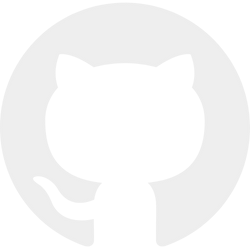
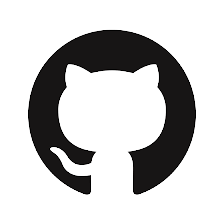
tweaked colors and used color variables

Changed region(s): [[0.125, 0.125, 0.875, 0.875]]

diff --git a/src/index.css b/src/index.css
@@ -14,6 +14,15 @@
   }
 }
 
+/* Color Variables */
+:root {
+  --primary-color: #0A192F;
+  --secondary-color: #68d391;
+  --light-theme-bg: #fff;
+  --text-color-dark: #D1D5DB;
+  --accent-color-light: #8892B0;
+  --accent-color-dark: #111;
+}
 
 * {
   margin: 0;
@@ -21,7 +30,7 @@
   box-sizing: border-box;
 }
 
-.nav {
+.nav, .progress_wrapper {
   z-index: 10;
 }
 
@@ -30,7 +39,6 @@
   top: 0;
   left: 0;
   width: 100%;
-  z-index: 10;
 }
 
 .progress_bar {
@@ -39,7 +47,7 @@
   left: 0;
   width: 0%;
   height: 3px;
-  background-color: #68d391;
+  background-color: var(--secondary-color);
 }
 
 /* Custom Scroll-Bar */
@@ -48,18 +56,18 @@
 }
 
 ::-webkit-scrollbar-track {
-  background: #f1f1f1;
+  background: var(--light-theme-bg);
 }
 
 ::-webkit-scrollbar-thumb {
-  background: #68d391;
+  background: var(--secondary-color);
   border-radius: 4px;
 }
 
 .loader {
   display:block;
   margin:auto;
-  color: #68d391;
+  color: var(--secondary-color);
   z-index: 999;
 }
 
@@ -107,11 +115,11 @@
 
 #btnTop {
   display: inline-block;
-  background-color: #0A192F;
+  background-color: var(--primary-color);
   width: 50px;
   height: 50px;
   text-align: center;
-  border-color: #fff;
+  border-color: var(--light-theme-bg);
   border: 2px solid;
   position: fixed;
   bottom: 30px;
@@ -129,7 +137,7 @@
   font-style: normal;
   font-size: 2em;
   line-height: 50px;
-  color: #fff;
+  color: --light-theme-bg;
 }
 
 #btnTop:hover {
@@ -142,53 +150,50 @@
 }
 
 .light-theme {
-  background-color: #e4e5f1;
-  color: black;
+  background-color: var(--light-theme-bg);
+  color: var(--accent-color-dark);
 
 }
+
 .light-theme .mobileMenu {
-  background-color: #e4e5f1;
+  background-color: var(--accent-color-light);
 }
 
-.light-theme a, p, .about {
-  color: #0A192F;
+.light-theme p, .about {
+  color: var(--primary-color);
 }
 
 .light-theme .time {
-  color: #0A192F;
+  color: var(--primary-color);
 }
 
 .light-theme .group{
-  border: 1px solid #0A192F;
-}
-
-.light-theme #btnTop, ::-webkit-scrollbar-thumb {
-  border-color: #0A192F;
+  border: 1px solid var(--primary-color);
 }
 
 .light-theme .name {
-  color: #8892B0;
+  color: var(--accent-color-light);
 }
 
 .light-theme .web, .title {
-  color: #0A192F;
+  color: var(--primary-color);
 }
 
 .light-theme button {
-  background-color: #0A192F;
+  background-color: var(--primary-color);
 }
 
-.light-theme .nav, .skillsCard {
-  background-color: #8892B0;
+.light-theme .nav {
+  background-color: var(--primary-color);
 }
 
 .dark-theme, .mobileMenu {
-  background-color: #0A192F;
-  color: white;
+  background-color: var(--primary-color);
+  color: var(--light-theme-bg);
 }
 
-.dark-theme .group{
-  border: 1px solid #68d391;
+.dark-theme .group, .skillsCard{
+  border: 1px solid var(--secondary-color);
 }
 
 .dark-theme .nav {
@@ -196,21 +201,20 @@
 }
 
 .dark-theme .skillsCard {
-  background-color: #0A192F;
+  background-color: var(--primary-color);
 }
 
 .dark-theme p, .time {
-  color: #D1D5DB;
+  color: var(--light-theme-bg);
 }
 
 .dark-theme .hi {
-  color: #68d391;
+  color: var(--secondary-color);
 }
 
 canvas {
   background-color: transparent;
 }
-
 
 /* CSS Animation for about section*/
 @keyframes slideInLeft {
@@ -245,7 +249,7 @@ canvas {
 
 .web {
   position: relative;
-  white-space: nowrap;
+  --light-theme-bg-space: nowrap;
   text-overflow: ellipsis;
   max-width: 65vw;
   height: auto;
@@ -255,8 +259,8 @@ canvas {
   content: "I'm a Software Developer.";
   position: absolute;
   overflow: hidden;
-  color: #68d391;
-  border-right: 4px solid #68d391;
+  color: var(--secondary-color);
+  border-right: 4px solid var(--secondary-color);
   top: 0;
   left: 0;
   width: 0;
@@ -265,8 +269,8 @@ canvas {
 }
 
 .light-theme .web::before{
-  color: #8892B0;
-  border-right: 4px solid #8892B0;
+  color: --accent-color-light;
+  border-right: 4px solid --accent-color-light;
 }
 
 @keyframes sway {
@@ -308,4 +312,3 @@ canvas {
     overflow: hidden;
   }
 }
-

diff --git a/src/components/Navbar.jsx b/src/components/Navbar.jsx
@@ -61,7 +61,7 @@ const Navbar = ({ theme, setTheme }) => {
           </Link>
         </li>
         <DarkModeSwitch
-          style={{ marginBottom: "0rem" }}
+          style={{ marginBottom: "0rem", color: "#fff" }}
           checked={theme === "dark"}
           onChange={toggleDarkMode}
           size={25}
@@ -73,9 +73,9 @@ const Navbar = ({ theme, setTheme }) => {
         className="md:hidden z-10 hover:cursor-pointer text-2xl"
       >
         {!nav ? (
-          <FaBars />
+          <FaBars style={{ color: "#fff" }} />
         ) : (
-          <FaTimes style={{ color: theme === "light" ? "#0A192F" : "#fff" }} />
+          <FaTimes style={{ color: "#fff" }} />
         )}
       </div>
 

diff --git a/src/pages/Contact.jsx b/src/pages/Contact.jsx
@@ -13,12 +13,10 @@ const Contact = ({ nav }) => {
       <form
         method="POST"
         action="https://getform.io/f/65c92a0f-7a6c-4355-83a7-dcd78c5a552f"
-        className="flex flex-col max-w-[600px] w-full"
+        className="flex flex-col max-w-[600px] w-full font-bold text-[#0A192F]"
       >
         <div className="pb-6">
-          <p className="text-4xl font-bold inline border-b-4 border-blue-600">
-            Contact
-          </p>
+          <p className="text-4xl inline border-b-4 border-blue-600">Contact</p>
         </div>
         <input
           className="bg-[#ccd6f6] p-2"

diff --git a/src/pages/Skills.jsx b/src/pages/Skills.jsx
@@ -17,7 +17,7 @@ const Skills = () => {
           {skill.map((item, index) => (
             <div
               key={index}
-              className="skillsCard rounded-md hover:scale-110 duration-500 group"
+              className="skillsCard font-bold rounded-md hover:scale-110 duration-500 group"
             >
               <img
                 style={{ padding: "10px" }}
